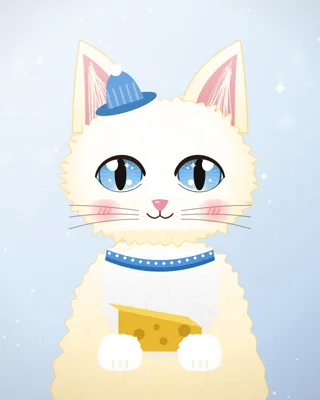
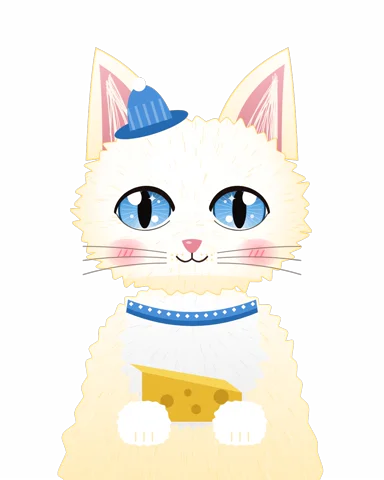
Talk-card portraits: just the character, 1.5x bigger; cats' names on their cards
The user wanted the portraits without frame or background, so they're re-rendered on transparent and fade out at the bottom into the card. Talk text now wraps round the bigger portrait instead of squeezing beside it. Each cat's name (Рудько, Вуглик...) shows on its card; the word to say is still the colour and kit.

diff --git a/game.js b/game.js
@@ -4167,7 +4167,7 @@ function myDialog(id, text, choices) {
   const npc = NPC[id], uk = MY_LANG === 'uk';
   const body = myL(text), long = body.replace(/<[^>]+>/g, '').length > 230;   // a long card (a first hello with the news and the hint) gets smaller type, so it all fits
   const hasP = PORTRAITS.has(npc.id);
-  openSheet('<div class="dlg mydlg">' + (hasP ? portraitHTML : '<img class="face" src="' + faceURL(npcLook(npc.id)) + '" alt=""' + (long ? ' style="width:64px;height:64px"' : '') + '>') + '<div style="flex:1"><div class="who" style="display:flex;align-items:center;gap:8px;flex-wrap:wrap"><span style="flex:1">' + (uk ? npc.name : npc.nameEn) + '</span><button class="subt mylang" data-a="myLang" style="font-size:13px;padding:3px 10px">' + (uk ? '🇬🇧 English' : '🇺🇦 Українською') + '</button></div><div class="line" style="font-size:' + (long ? 16.5 : 19) + 'px;line-height:1.3">' + body + '</div></div></div>' +
+  openSheet('<div class="dlg mydlg' + (hasP ? ' hasp' : '') + '">' + (hasP ? portraitHTML : '<img class="face" src="' + faceURL(npcLook(npc.id)) + '" alt=""' + (long ? ' style="width:64px;height:64px"' : '') + '>') + '<div style="flex:1"><div class="who" style="display:flex;align-items:center;gap:8px;flex-wrap:wrap"><span style="flex:1">' + (uk ? npc.name : npc.nameEn) + '</span><button class="subt mylang" data-a="myLang" style="font-size:13px;padding:3px 10px">' + (uk ? '🇬🇧 English' : '🇺🇦 Українською') + '</button></div><div class="line" style="font-size:' + (long ? 16.5 : 19) + 'px;line-height:1.3">' + body + '</div></div></div>' +
     '<div class="choices">' + choices.map((c, i) => '<button class="b ghost mych" data-a="myChoose" data-v="' + i + '">' + myL(c.label) + '</button>').join('') + '</div>');
   if (hasP) portraitShow(npc.id);   // (the language button sits up by their name, where it can't scroll out of sight)
 }
@@ -5394,7 +5394,8 @@ function catSheet(e) {
   });
   catPortrait(ct.id);
 }
-function catPortrait(id) { const pid = 'cat_' + id; if (!PORTRAITS.has(pid) || !sheet.classList.contains('show')) return; const card = sheet.querySelector('.card') || sheet.firstElementChild; if (!card) return; card.insertAdjacentHTML('afterbegin', portraitHTML); portraitShow(pid); }
+const CAT_LAT = { rudko: 'Rudko', vuhlyk: 'Vuhlyk', snizhok: 'Snizhok', dymok: 'Dymok', smuhastyk: 'Smuhastyk', murka: 'Murka', bublyk: 'Bublyk', zirka: 'Zirka' };
+function catPortrait(id) { const pid = 'cat_' + id; if (!PORTRAITS.has(pid) || !sheet.classList.contains('show')) return; const card = sheet.querySelector('.card') || sheet.firstElementChild; if (!card) return; const ct = D.cats.find(x => x.id === id); card.insertAdjacentHTML('afterbegin', portraitHTML + (ct ? '<div class="catname">' + ct.name + ' <span>' + (CAT_LAT[id] || '') + '</span></div>' : '')); portraitShow(pid); }
 const catFriends = () => D.cats.filter(ct => S.cats[ct.id]).length;
 
 // ------------------------------------------------------------------ walking
@@ -5709,13 +5710,13 @@ let onClose = null, acts = [], cur = {}, sheetAt = 0;
 // anything else.
 const PORTRAITS = new Set(['me', 'olia', 'taras', 'andriiko', 'bohdan', 'oksana', 'solomiia', 'petro', 'myron', 'yaroslava', 'ostap', 'lesia', 'zakhar', 'halyna', 'cat_rudko', 'cat_vuhlyk', 'cat_snizhok', 'cat_dymok', 'cat_smuhastyk', 'cat_murka', 'cat_bublyk', 'cat_zirka']);
 let portraitOn = null, portraitRaf = 0;
-const PORTRAIT_W = 128, PORTRAIT_H = 160, PORTRAIT_OVER = 0.3;
+const PORTRAIT_W = 192, PORTRAIT_H = 240, PORTRAIT_OVER = 0.3;
 function portraitEl() {
   let im = document.getElementById('talkPortrait');
-  if (!im) { im = document.createElement('img'); im.id = 'talkPortrait'; im.alt = ''; im.style.cssText = 'position:fixed;z-index:11;pointer-events:none;width:' + PORTRAIT_W + 'px;height:' + PORTRAIT_H + 'px;object-fit:cover;border-radius:22px;box-shadow:0 8px 22px rgba(60,30,20,.28);border:3px solid #fffaf0;display:none;background:#f3e6dc'; document.body.appendChild(im); }
+  if (!im) { im = document.createElement('img'); im.id = 'talkPortrait'; im.alt = ''; im.style.cssText = 'position:fixed;z-index:11;pointer-events:none;width:' + PORTRAIT_W + 'px;height:' + PORTRAIT_H + 'px;object-fit:contain;display:none;filter:drop-shadow(0 4px 6px rgba(60,30,20,.18));-webkit-mask-image:linear-gradient(#000 82%,transparent);mask-image:linear-gradient(#000 82%,transparent)'; document.body.appendChild(im); }
   return im;
 }
-const portraitHTML = '<div class="pslot" style="width:' + (PORTRAIT_W - 6) + 'px;height:' + Math.round(PORTRAIT_H * (1 - PORTRAIT_OVER) - 6) + 'px;flex:none;float:left;margin:0 10px 6px 0"></div>';
+const portraitHTML = '<div class="pslot" style="width:' + (PORTRAIT_W - 20) + 'px;height:' + Math.round(PORTRAIT_H * (1 - PORTRAIT_OVER) - 4) + 'px;float:left;margin:0 8px 2px -6px"></div>';
 function portraitShow(id) {
   if (!PORTRAITS.has(id)) return false;
   const im = portraitEl(), src = 'portraits/' + id + '.webp'; if (!im.src.endsWith(src)) im.src = src;
@@ -5724,7 +5725,7 @@ function portraitShow(id) {
     if (!portraitOn || !(sheet.classList.contains('show') || sheet.classList.contains('closing'))) { im.style.display = 'none'; portraitOn = null; return; }
     const slot = sheet.querySelector('.pslot'); if (!slot) { im.style.display = 'none'; portraitOn = null; return; }
     const r = slot.getBoundingClientRect(), sr = sheet.getBoundingClientRect();
-    im.style.left = Math.round(r.left - 3) + 'px'; im.style.top = Math.round(sr.top - PORTRAIT_H * PORTRAIT_OVER) + 'px';
+    im.style.left = Math.round(r.left - 10) + 'px'; im.style.top = Math.round(sr.top - PORTRAIT_H * PORTRAIT_OVER) + 'px';
     portraitRaf = requestAnimationFrame(follow);
   };
   follow(); return true;
@@ -6155,7 +6156,7 @@ function dialog(npc, steps, i = 0) {
   const en = s < 2 ? `<div class="en">${st.en}</div>` : `<button class="peek" data-a="peekLine">👁 ${D.ui.show[0]}${stage() < 3 ? " · " + D.ui.show[1] : ""}</button>`;
   const choices = st.choices ? `<div class="choices">${st.choices.map((c, k) => `<button class="b ghost" data-a="choose" data-v="${k}">${c.uk}<small class="cen"${s < 2 ? '' : ' style="display:none"'}>${c.en}</small></button>`).join('')}</div>` : '';
   const pid = st.me ? 'me' : npc.id, hasP = PORTRAITS.has(pid);
-  openSheet(`<div class="dlg">${hasP ? portraitHTML : `<img class="face" src="${face}" alt="">`}<div style="flex:1"><div class="who">${who}</div>
+  openSheet(`<div class="dlg${hasP ? ' hasp' : ''}">${hasP ? portraitHTML : `<img class="face" src="${face}" alt="">`}<div style="flex:1"><div class="who">${who}</div>
     <div class="line">${st.uk}</div>${s < 2 ? `<div class="tr">${translit(st.uk)}</div>` : ''}<div id="en">${en}</div></div></div>
     ${st.hint ? `<div class="hint">${st.hint}</div>` : ''}${choices}
     <div class="row">${btn('hear', st.clip, '🔊', 'round blue')}${st.choices ? '' : btn('next', '', lab('next'))}</div>`);

diff --git a/404.html b/404.html
@@ -134,6 +134,8 @@
   .subt small { display:block; font-size:14px; font-weight:600; }
   .subt.mylang { border:1.5px solid var(--line, #d8cbb0); border-radius:999px; font-size:15px; padding:6px 14px; }
   .dlg img.face { width:84px; height:84px; flex:none; border-radius:20px; background:#e8f4d9; }
+  .dlg.hasp { display:block; } .dlg.hasp::after { content:""; display:block; clear:both; } .dlg.hasp > div:not(.pslot) { overflow:visible; }
+  .catname { font-weight:800; font-size:22px; color:var(--rose); padding:8px 0 0; text-align:left; } .catname span { font-weight:600; font-size:15px; opacity:.7; }
   .dlg .who { font-weight:800; font-size:15px; color:var(--rose); }
   .dlg .line { font-size:24px; font-weight:800; line-height:1.2; margin-top:2px; }
   .dlg .tr { font-size:14px; }
@@ -311,12 +313,12 @@
     <button class="b ghost letter" id="micBtn" data-a="mic">🎤 Увімкнути мікрофон<small>Enable microphone</small></button>
     <button class="b ghost letter" data-a="story">📜 Лист від баби Олі<small>A letter from Grandma Olia</small></button>
   </div>
-  <div class="ver">v309</div>
+  <div class="ver">v310</div>
   <button class="reset" data-a="reset">start over</button>
 </div>
 
-<script>window.APP_VERSION = '309';</script>
-<script src="data.js?v=309"></script>
-<script src="game.js?v=309"></script>
+<script>window.APP_VERSION = '310';</script>
+<script src="data.js?v=310"></script>
+<script src="game.js?v=310"></script>
 </body>
 </html>

diff --git a/index.html b/index.html
@@ -134,6 +134,8 @@
   .subt small { display:block; font-size:14px; font-weight:600; }
   .subt.mylang { border:1.5px solid var(--line, #d8cbb0); border-radius:999px; font-size:15px; padding:6px 14px; }
   .dlg img.face { width:84px; height:84px; flex:none; border-radius:20px; background:#e8f4d9; }
+  .dlg.hasp { display:block; } .dlg.hasp::after { content:""; display:block; clear:both; } .dlg.hasp > div:not(.pslot) { overflow:visible; }
+  .catname { font-weight:800; font-size:22px; color:var(--rose); padding:8px 0 0; text-align:left; } .catname span { font-weight:600; font-size:15px; opacity:.7; }
   .dlg .who { font-weight:800; font-size:15px; color:var(--rose); }
   .dlg .line { font-size:24px; font-weight:800; line-height:1.2; margin-top:2px; }
   .dlg .tr { font-size:14px; }
@@ -311,12 +313,12 @@
     <button class="b ghost letter" id="micBtn" data-a="mic">🎤 Увімкнути мікрофон<small>Enable microphone</small></button>
     <button class="b ghost letter" data-a="story">📜 Лист від баби Олі<small>A letter from Grandma Olia</small></button>
   </div>
-  <div class="ver">v309</div>
+  <div class="ver">v310</div>
   <button class="reset" data-a="reset">start over</button>
 </div>
 
-<script>window.APP_VERSION = '309';</script>
-<script src="data.js?v=309"></script>
-<script src="game.js?v=309"></script>
+<script>window.APP_VERSION = '310';</script>
+<script src="data.js?v=310"></script>
+<script src="game.js?v=310"></script>
 </body>
 </html>

diff --git a/sw.js b/sw.js
@@ -3,7 +3,7 @@
 // the saved copy is only used when there's no connection.
 // Voice clips, music and icons: saved after first use. The whole cache is renamed each release
 // (tools/release.mjs), so a new version starts clean.
-const CACHE = 'kotiacha-dolyna-309';
+const CACHE = 'kotiacha-dolyna-310';
 const CORE = ['./', 'index.html', 'game.js', 'data.js', 'manifest.webmanifest', 'version.json', 'icons/icon-192.png?v=2', 'icons/icon-512.png?v=2', 'icons/apple-touch-icon.png?v=2'];
 
 self.addEventListener('install', e => {
